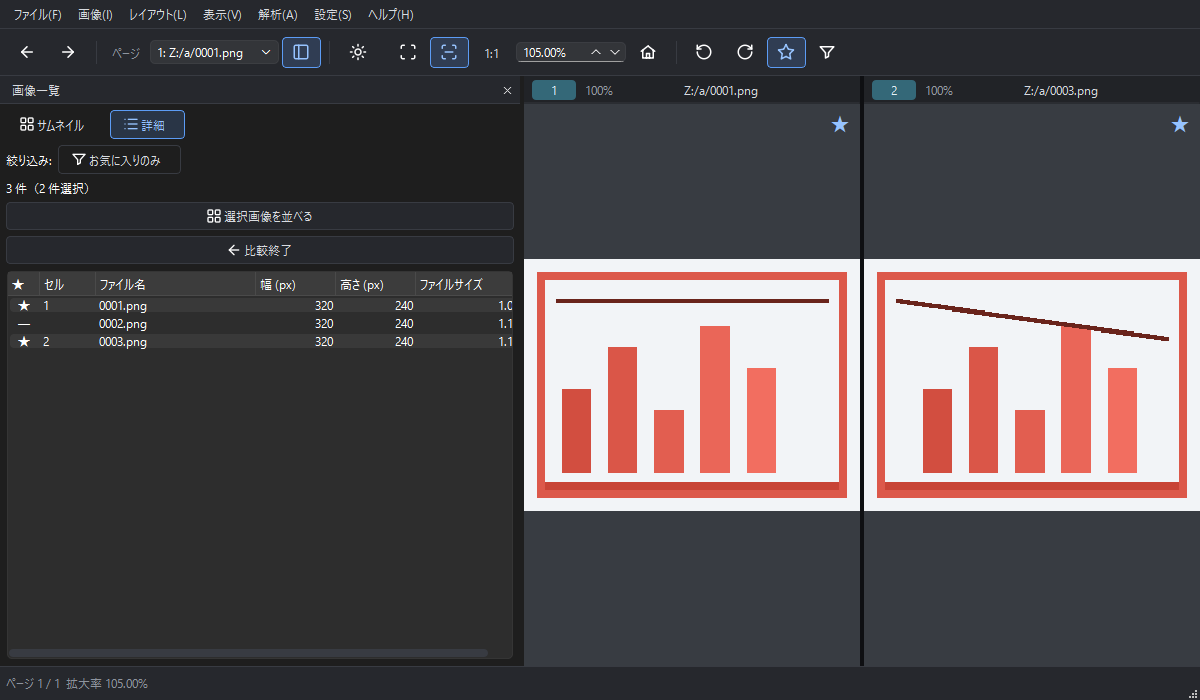
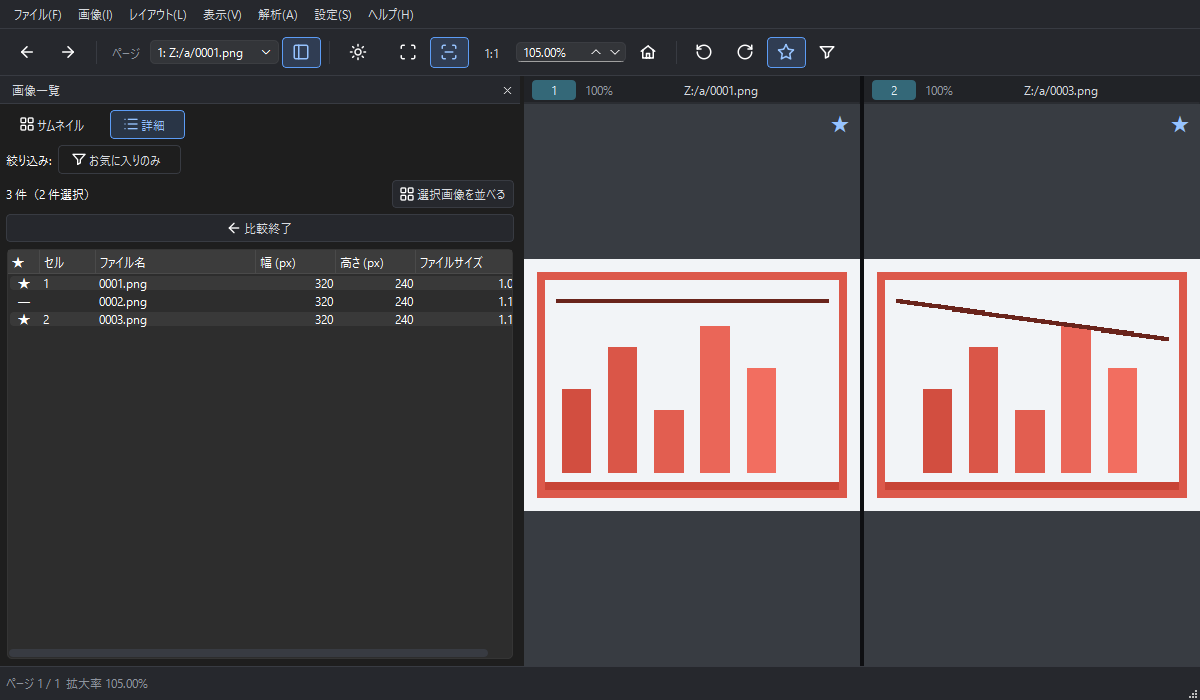
ui: 選択画像を並べるボタンを件数の右に移す
比較対象の件数を操作の隣で確認できるようにし、サムネイルの表示領域を広げる。

diff --git a/src/ui/ImageListPanelWidget.cpp b/src/ui/ImageListPanelWidget.cpp
@@ -112,7 +112,11 @@ ImageListPanelWidget::ImageListPanelWidget(QWidget *parent)
   excludedLayout->addWidget(excludedFiles_);
   excludedGroup_->hide();
   layout->addWidget(excludedGroup_);
-  layout->addWidget(count_);
+  auto *comparisonLayout = new QHBoxLayout;
+  count_->setWordWrap(true);
+  comparisonLayout->addWidget(count_, 1);
+  comparisonLayout->addWidget(compare_);
+  layout->addLayout(comparisonLayout);
   addFavoritesAction_->setObjectName("addSelectedFavoritesAction");
   removeFavoritesAction_->setObjectName("removeSelectedFavoritesAction");
   addFavoritesAction_->setToolTip(tr("Add selected images to favorites."));
@@ -126,7 +130,6 @@ ImageListPanelWidget::ImageListPanelWidget(QWidget *parent)
           [this]() { Q_EMIT favoritesRequested(selectedFilePaths(), true); });
   connect(removeFavoritesAction_, &QAction::triggered, this,
           [this]() { Q_EMIT favoritesRequested(selectedFilePaths(), false); });
-  layout->addWidget(compare_);
   compare_->setObjectName("compareSelectedImages");
   compare_->setIcon(themedIcon("layout-grid"));
   compare_->setToolTip(tr("Select 2 to 16 images to view side by side. Ctrl-click or Shift-click "

diff --git a/src/ui/AppStyle.cpp b/src/ui/AppStyle.cpp
@@ -163,6 +163,7 @@ QPushButton:hover { background-color: %4; }
 QPushButton:pressed { background-color: %5; }
 QPushButton:default { border-color: %9; }
 QPushButton:disabled { color: %6; }
+QPushButton#compareSelectedImages { padding: 5px 6px; }
 QToolButton#imageListFavoritesOnly { border-color: %3; }
 QToolButton#imageListFavoritesOnly:checked { border-color: %9; }
 

diff --git a/docs/設計判断.md b/docs/設計判断.md
@@ -484,7 +484,8 @@ MSVC 14.51 / Qt 6.11.1 の手元の環境で測ったもの。
   同じファイルが複数セルにある場合は全番号を示し、ページ送りでも複数選択を崩さず更新する。
   詳細表示ではサムネイルを生成せず、寸法をヘッダーから読む。Qt が対応しない形式は先頭画像を復号する。
   寸法を取得する専用プールは 1 ワーカーとし、復号が必要な複数画像を同時にメモリへ展開しない。
-  複数選択した画像の比較は同じ画面で行う。「比較終了」で最初のレイアウト・ページ・編集状態を復元する。
+  選択件数の右に比較ボタンを置き、何枚を比較するか確認できるようにする。複数選択した画像の比較は同じ画面で行う。
+  「比較終了」で最初のレイアウト・ページ・編集状態を復元する。
   比較の開始・終了は配置の変更として Undo / Redo でき、比較開始前の状態も一緒に復元する。
   終了時に元のページが絞り込み対象外なら絞り込みを解除する。対象内なら比較中の設定を引き継ぐ。
   比較開始前の一覧元のセッションを runtime 側で保持し、一覧の件数・並び・お気に入りの判定はその元データから求める。

diff --git a/manual/side-by-side.md b/manual/side-by-side.md
@@ -253,7 +253,7 @@
 :width: 240px
 ```
 
-2～16 枚を選んでパネル内の **選択画像を並べる** (Compare Selected) を押すと、同じ画面のセルへ一覧順に配置します。
+2～16 枚を選んで件数の右にある **選択画像を並べる** (Compare Selected) を押すと、同じ画面のセルへ一覧順に配置します。
 選んだ画像にフィットし、通常どおりパンやズームを同期して見比べられます。
 比較を実行しても、画像一覧の件数・並びと「お気に入りのみ」の設定は保ちます。繰り返し比較しても一覧へ項目を追加しません。
 **比較終了** (End Comparison) を押すと、最初に比較を始める前のレイアウトとページに戻ります。
